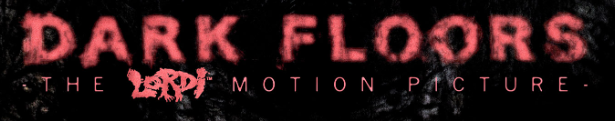
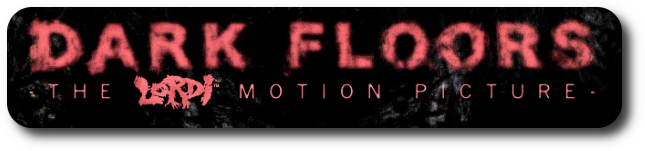
rounded corners, added minor space to certain pics

diff --git a/WebDev/WebDev.html b/WebDev/WebDev.html
@@ -27,11 +27,11 @@
 			</div>
 		</a>
 		<a href="Gridmedaddy.html">
-			<div class="banner-container" style="background-image: url('../IMAGES/darkfloorsbanner.png'); width: 615px; height: 121px;">
+			<div class="banner-container" style="background-image: url('../IMAGES/darkfloorsbanner.png'); width: 645px; height: 151px;">
 			</div>
 		</a>
 		<a href="atmedia.html">
-			<div class="banner-container" style="background-image: url('../IMAGES/desktoptotablettophone.png'); width: 500px; height: 220px;">
+			<div class="banner-container" style="background-image: url('../IMAGES/desktoptotablettophone.png'); width: 530px; height: 250px;">
 			</div>
 		</a>
 		

diff --git a/index.html b/index.html
@@ -25,7 +25,7 @@
     <br>
     <br>
     <a href="WebDev/atmedia.html">
-        <div class="banner-container" style="background-image: url('IMAGES/desktoptotablettophone.png'); width: 500px; height: 220px;"></div>
+        <div class="banner-container" style="background-image: url('IMAGES/desktoptotablettophone.png'); width: 530px; height: 250px;"></div>
     </a>
 </center>  
 </body>
